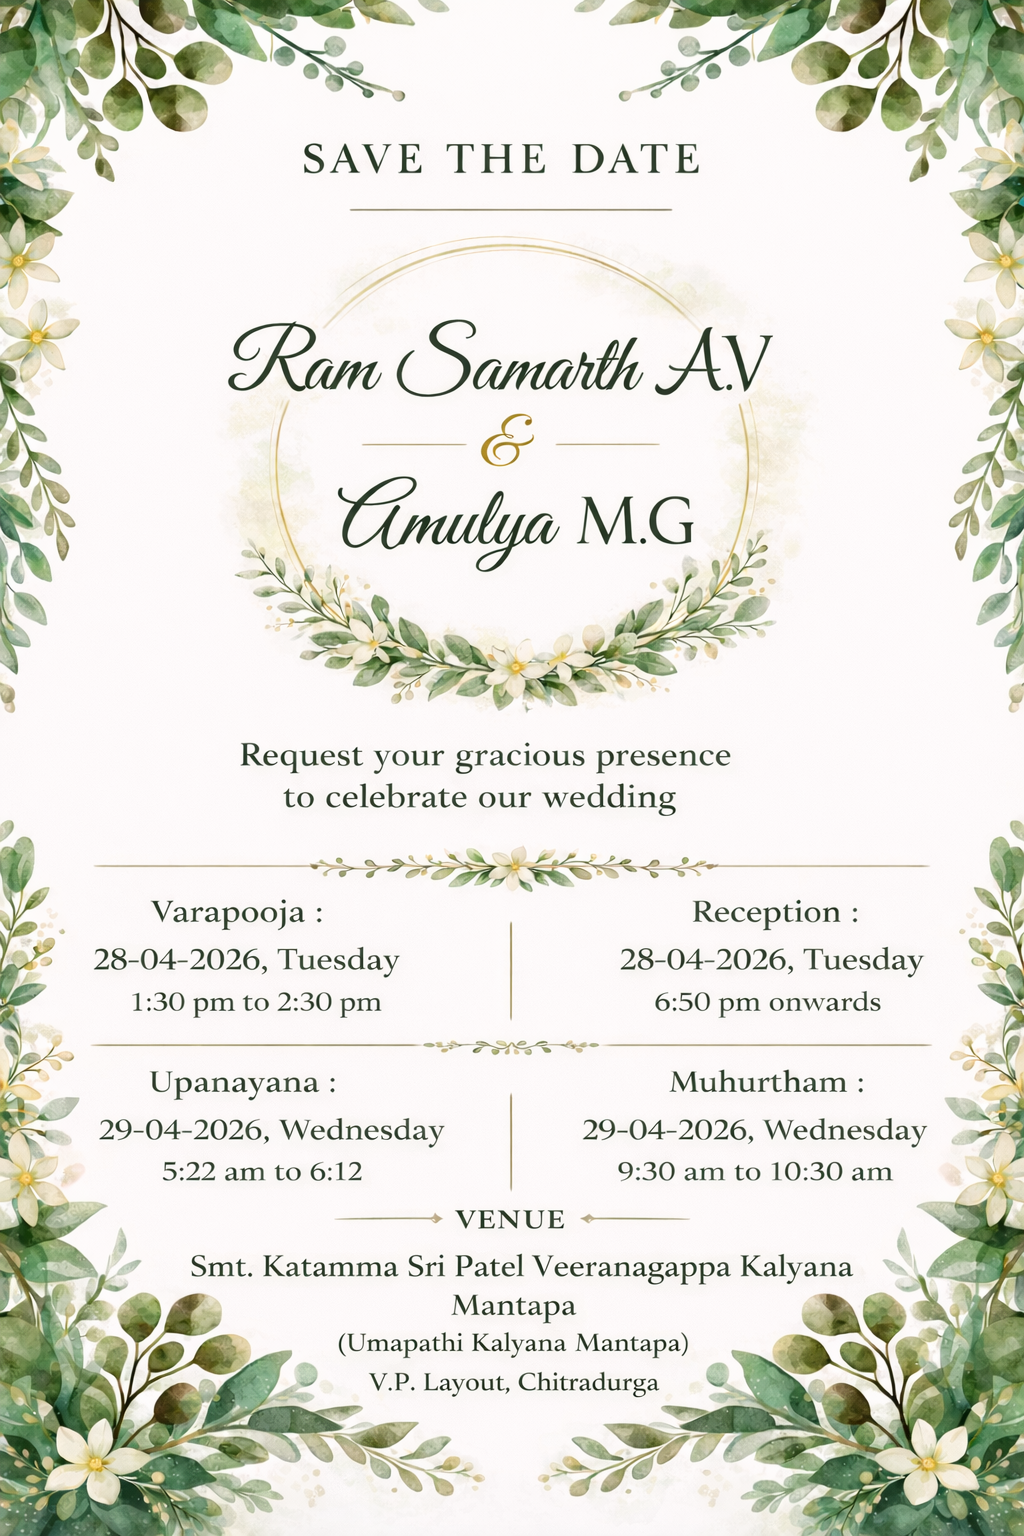
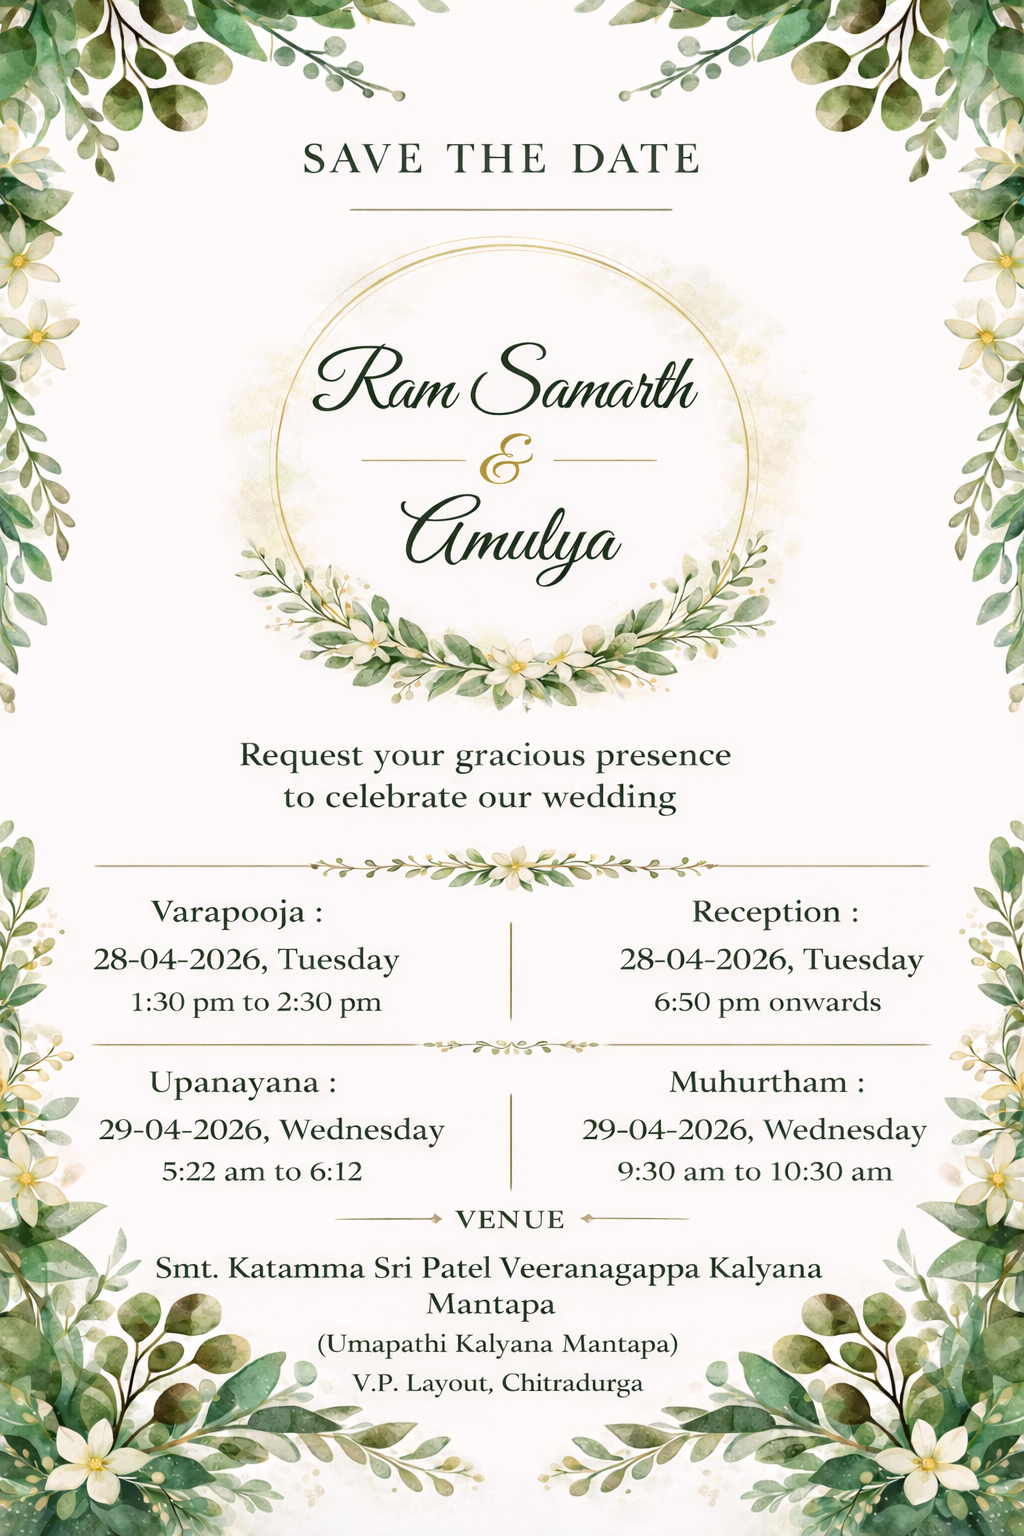
AA

diff --git a/poster.html b/poster.html
@@ -181,9 +181,9 @@
       <div class="ornament"></div>
       <p class="blessing">With the blessings of our families</p>
       
-      <div class="names">Ram Samarth A.V.</div>
+      <div class="names">Ram Samarth</div>
       <div class="ampersand">&</div>
-      <div class="names">Amulya M.G.</div>
+      <div class="names">Amulya</div>
       
       <div class="ornament-wide"></div>
       <p class="invite-text">request the honour of your presence<br>at their wedding celebrations</p>
@@ -195,7 +195,7 @@
         </div>
         <div class="event">
           <div class="event-name">Muhurat</div>
-          <div class="event-detail">29 March 2026 &nbsp;·&nbsp; Morning 9:30 – 10:30</div>
+          <div class="event-detail">29 April 2026 &nbsp;·&nbsp; Morning 9:30 – 10:30</div>
         </div>
       </div>
       

diff --git a/index.html b/index.html
@@ -18,7 +18,7 @@
       <meta name="twitter:description"
          content="Join us in celebrating the wedding of Ram Samarth A.V. & Amulya M.G. at Smt. Katamma Patel Veeranagappa Kalyana Mantapa, Chitradurga.">
 
-      <title>Wedding Invitation | Ram Samarth & Amulya | March 29 - April 28, 2026</title>
+      <title>Wedding Invitation | Ram Samarth & Amulya | April 28 - April 29, 2026</title>
 
       <link href="https://fonts.googleapis.com/css2?family=Arvo:wght@400;700&family=Cormorant+Garamond:ital,wght@0,400;0,600;0,700&family=Dancing+Script:wght@500;700&family=Great+Vibes&display=swap" rel="stylesheet">
       <link rel="stylesheet" href="./css/style.css">
